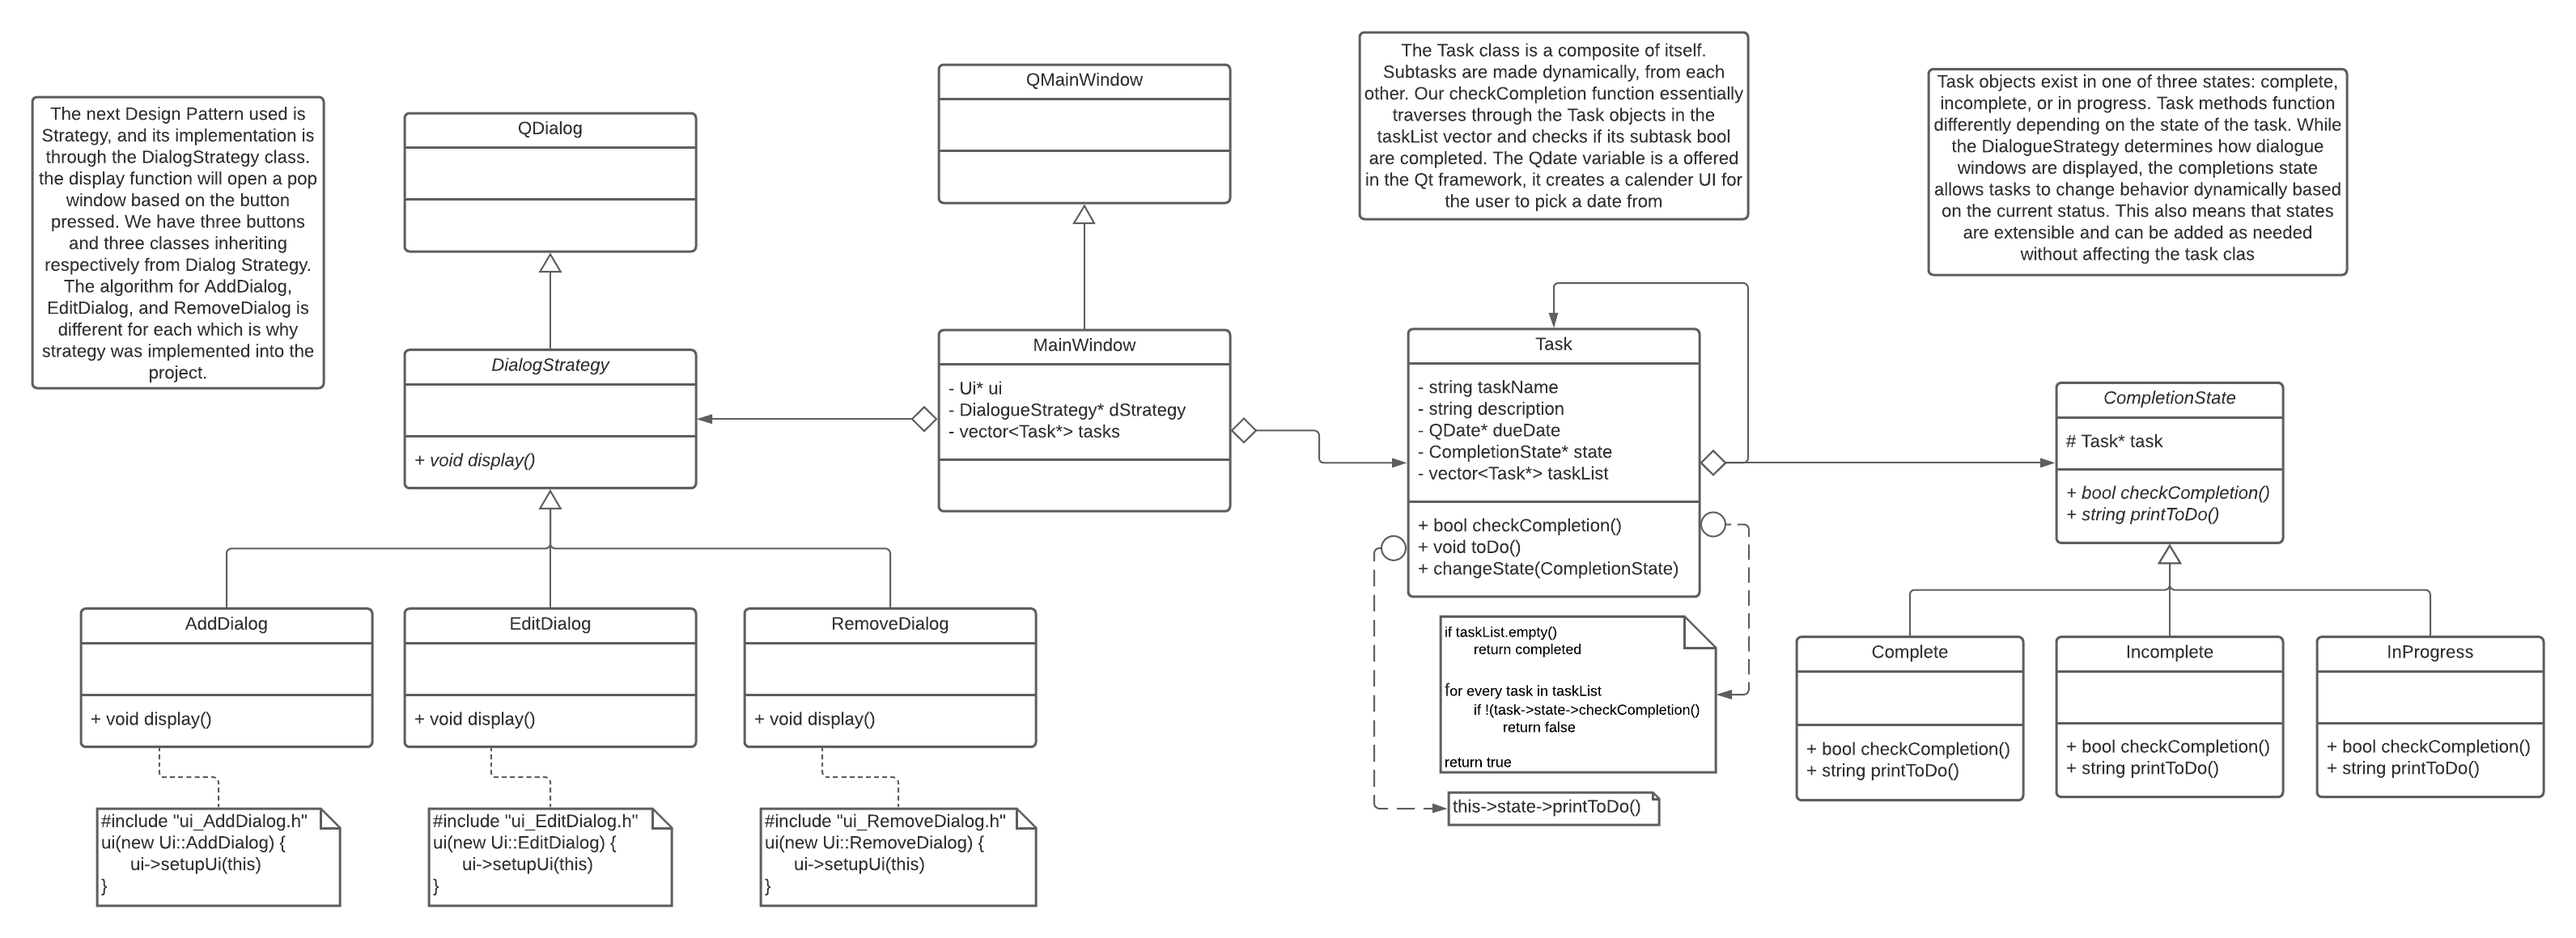
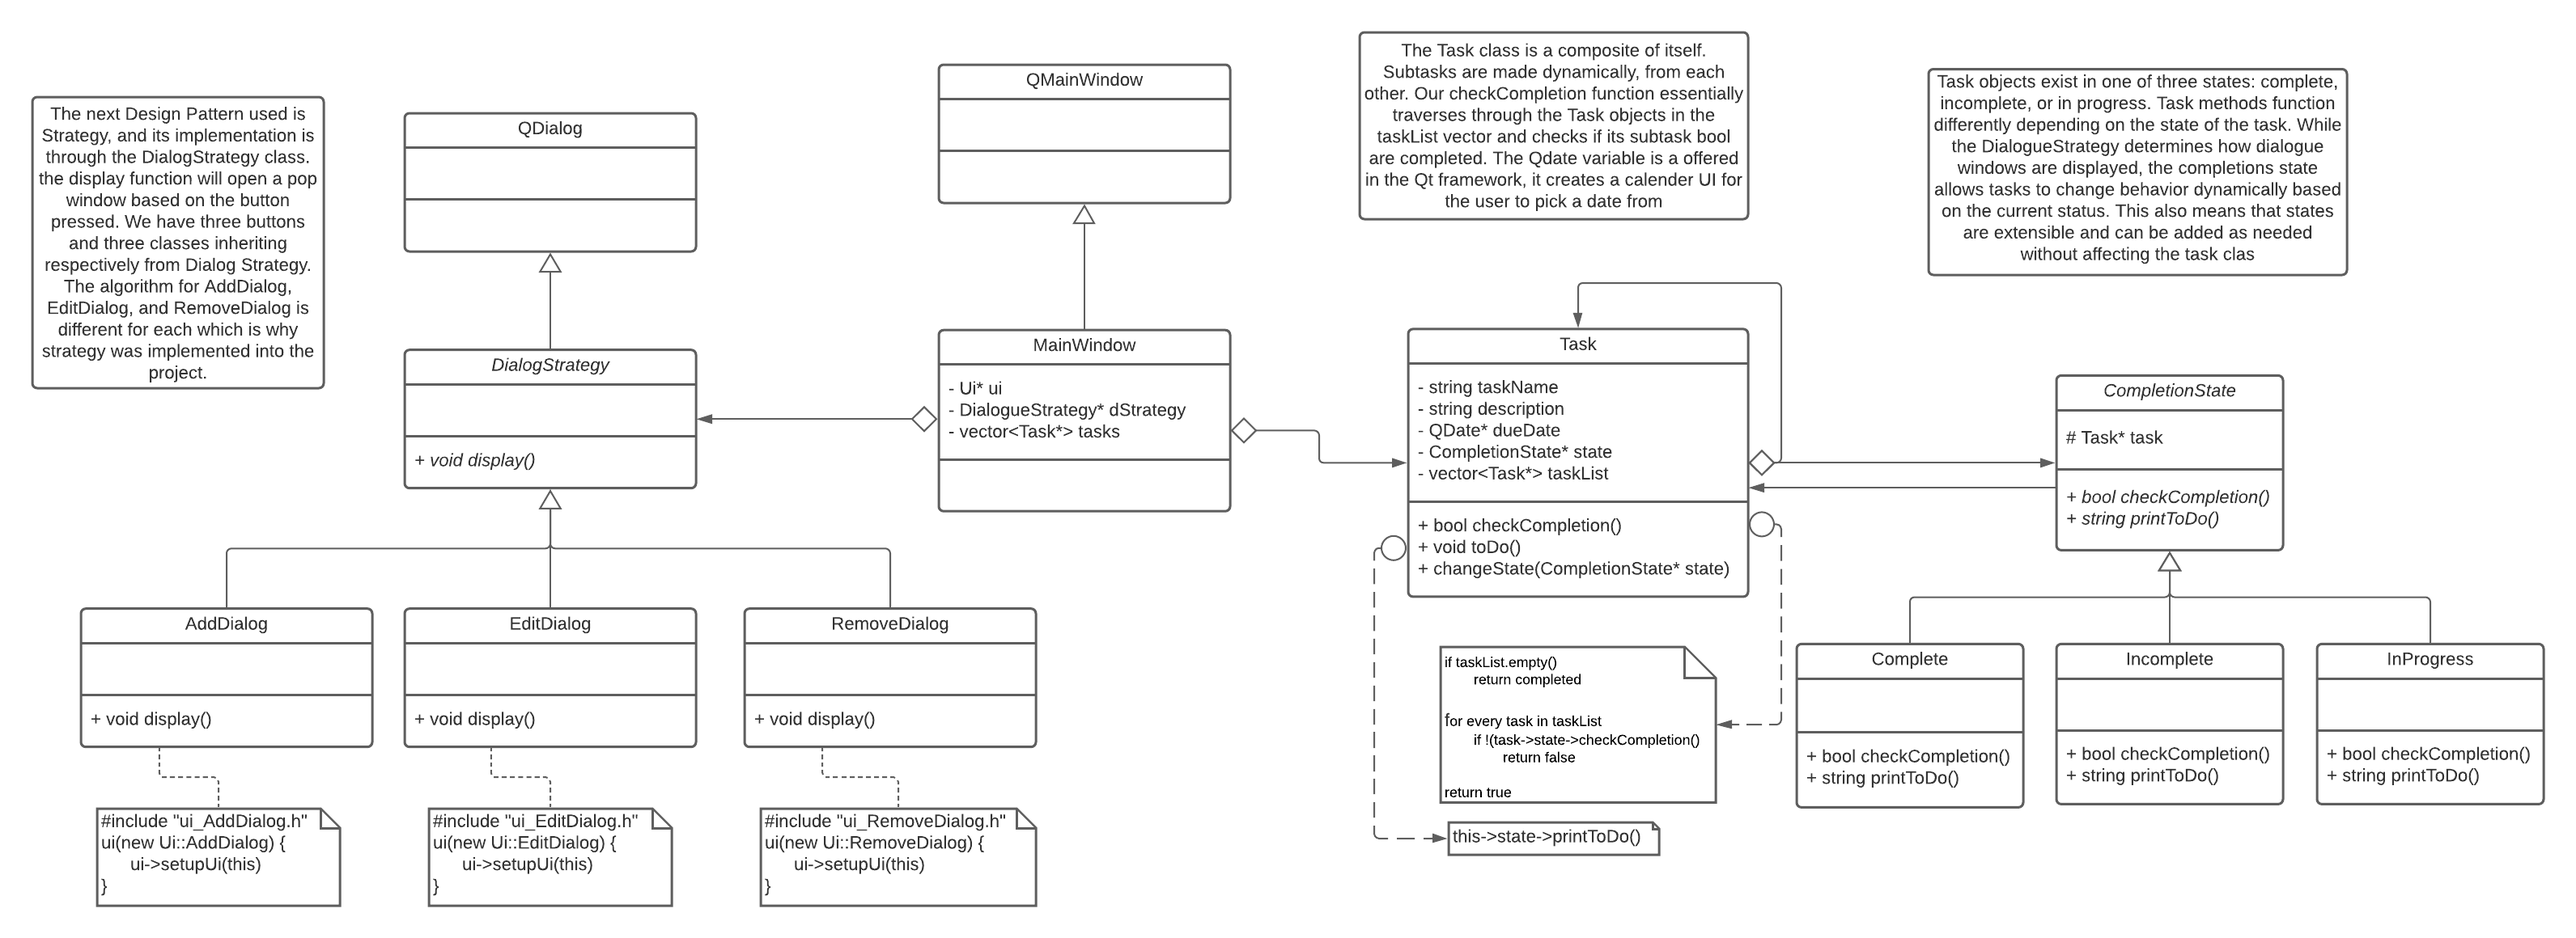
Further changes to OMT diagram and added mandatory Task* references for each state

diff --git a/test/stateTests.h b/test/stateTests.h
@@ -4,7 +4,15 @@
 #include "../header/task.h"
 #include "../header/complete.h"
 
-TEST(CompleteTests,test1) {
-    CompletionState* state = new Complete();
+TEST(CompleteTests, checkCompletion) {
+    Task* task = new Task();
+    CompletionState* state = new Complete(task);
+
     EXPECT_TRUE(state->checkCompletion());
+    delete state;
+}
+
+TEST(CompleteTests, printToDo) {
+    Task* task = new Task();
+    EXPECT_TRUE(true);
 }

diff --git a/header/CompletionState.h b/header/CompletionState.h
@@ -9,10 +9,10 @@ class CompletionState {
     protected:
         Task* task;
     public:
-        CompletionState() { }
+        CompletionState(Task* task) : task(task) {}
         virtual ~CompletionState() { }
         virtual bool checkCompletion() = 0;
-        virtual void printToDo() = 0;
+        virtual std::string printToDo() = 0;
 };
 
 #endif // __COMPLETIONSTATE_H__

diff --git a/src/incomplete.cpp b/src/incomplete.cpp
@@ -1,12 +1,13 @@
 #include "../header/incomplete.h"
 
-Incomplete::Incomplete() { }
+Incomplete::Incomplete(Task* task) : CompletionState(task) { }
 Incomplete::~Incomplete() { }
 
 bool Incomplete::checkCompletion() {
     return false;
 }
 
-void Incomplete::printToDo() { 
+std::string Incomplete::printToDo() { 
     // TODO: Implement print function
+    return "";
 }

diff --git a/src/inProgress.cpp b/src/inProgress.cpp
@@ -1,12 +1,13 @@
 #include "../header/inProgress.h"
 
-InProgress::InProgress() { }
+InProgress::InProgress(Task* task) : CompletionState(task) { }
 InProgress::~InProgress() { }
 
 bool InProgress::checkCompletion() {
     return true;
 }
 
-void InProgress::printToDo() { 
+std::string InProgress::printToDo() { 
     // TODO: Implement print function
+    return "";
 }

diff --git a/src/complete.cpp b/src/complete.cpp
@@ -1,12 +1,13 @@
 #include "../header/complete.h"
 
-Complete::Complete() { }
+Complete::Complete(Task* task) : CompletionState(task) { }
 Complete::~Complete() { }
 
 bool Complete::checkCompletion() {
     return true;
 }
 
-void Complete::printToDo() { 
+std::string Complete::printToDo() { 
     // TODO: Implement print function
+    return "";
 }

diff --git a/header/InProgress.h b/header/InProgress.h
@@ -5,10 +5,10 @@
 
 class InProgress : public CompletionState {
     public:
-        InProgress();
+        InProgress(Task* task);
         ~InProgress();
         virtual bool checkCompletion() override;
-        virtual void printToDo() override;
+        virtual std::string printToDo() override;
 };
 
 #endif // __INPROGRESS_H__

diff --git a/header/Incomplete.h b/header/Incomplete.h
@@ -5,10 +5,10 @@
 
 class Incomplete : public CompletionState {
     public:
-        Incomplete();
+        Incomplete(Task* task);
         ~Incomplete();
         virtual bool checkCompletion() override;
-        virtual void printToDo() override;
+        virtual std::string printToDo() override;
 };
 
 #endif // __INCOMPLETE_H__

diff --git a/header/Complete.h b/header/Complete.h
@@ -5,10 +5,10 @@
 
 class Complete : public CompletionState {
     public:
-        Complete();
+        Complete(Task* task);
         ~Complete();
         virtual bool checkCompletion() override;
-        virtual void printToDo() override;
+        virtual std::string printToDo() override;
 };
 
 #endif // __COMPLETE_H__

diff --git a/src/task.cpp b/src/task.cpp
@@ -12,5 +12,7 @@ void Task::toDo()
 }
 
 void Task::changeState(CompletionState* state) {
+    if (this->state != nullptr)
+        delete state;
     this->state = state;
 }
